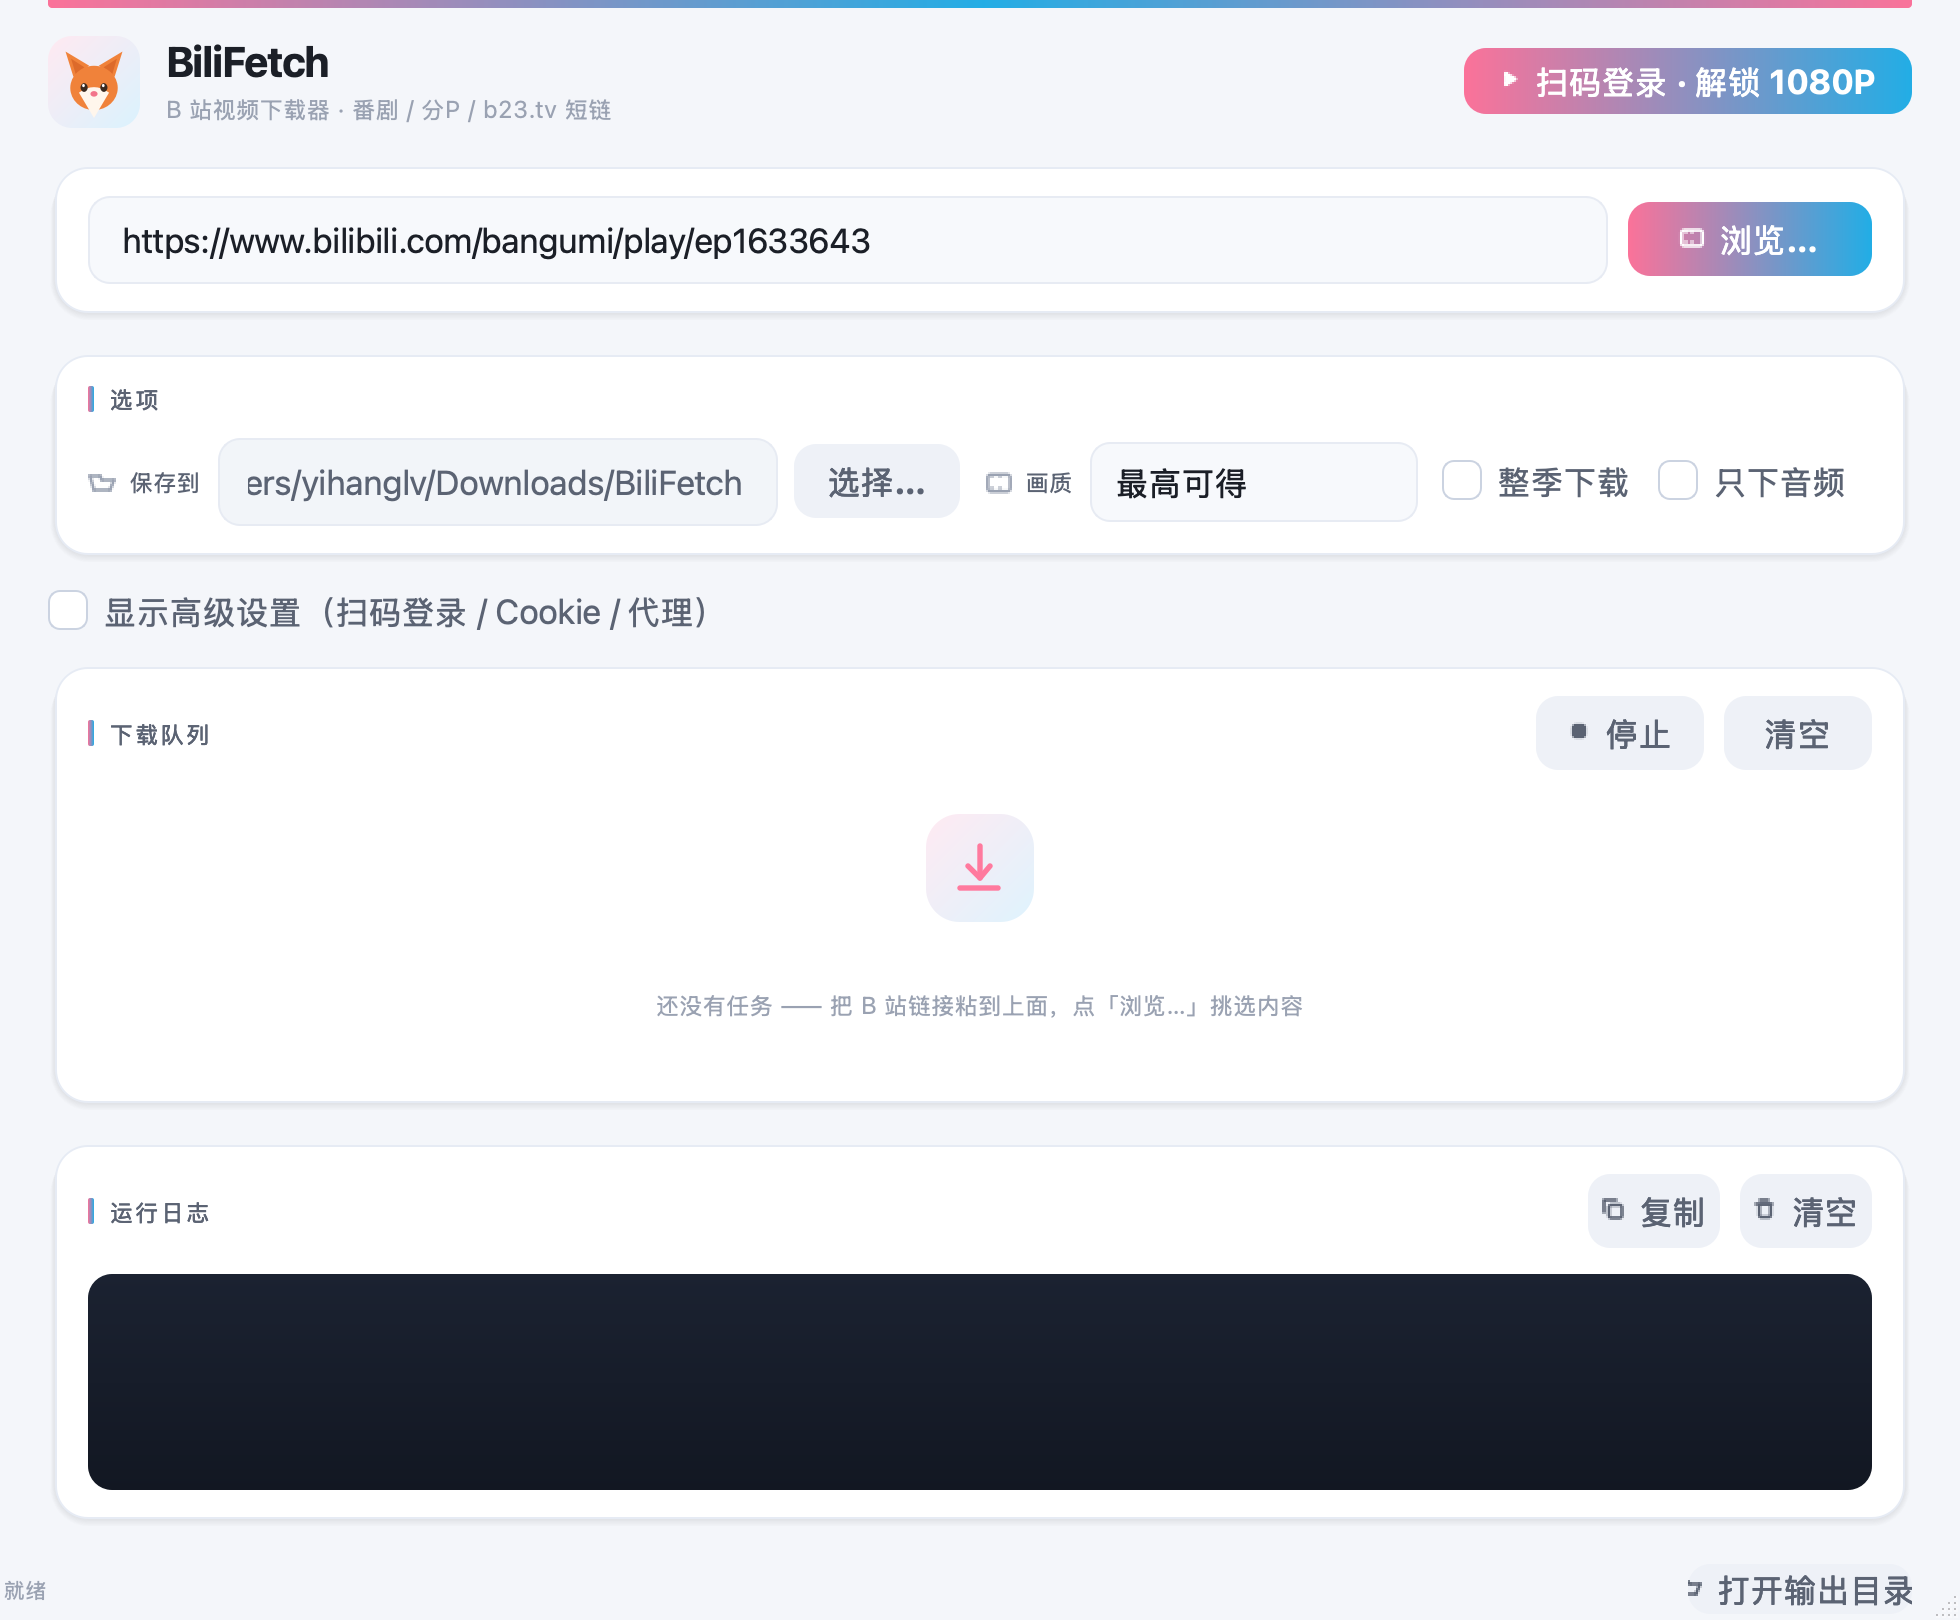
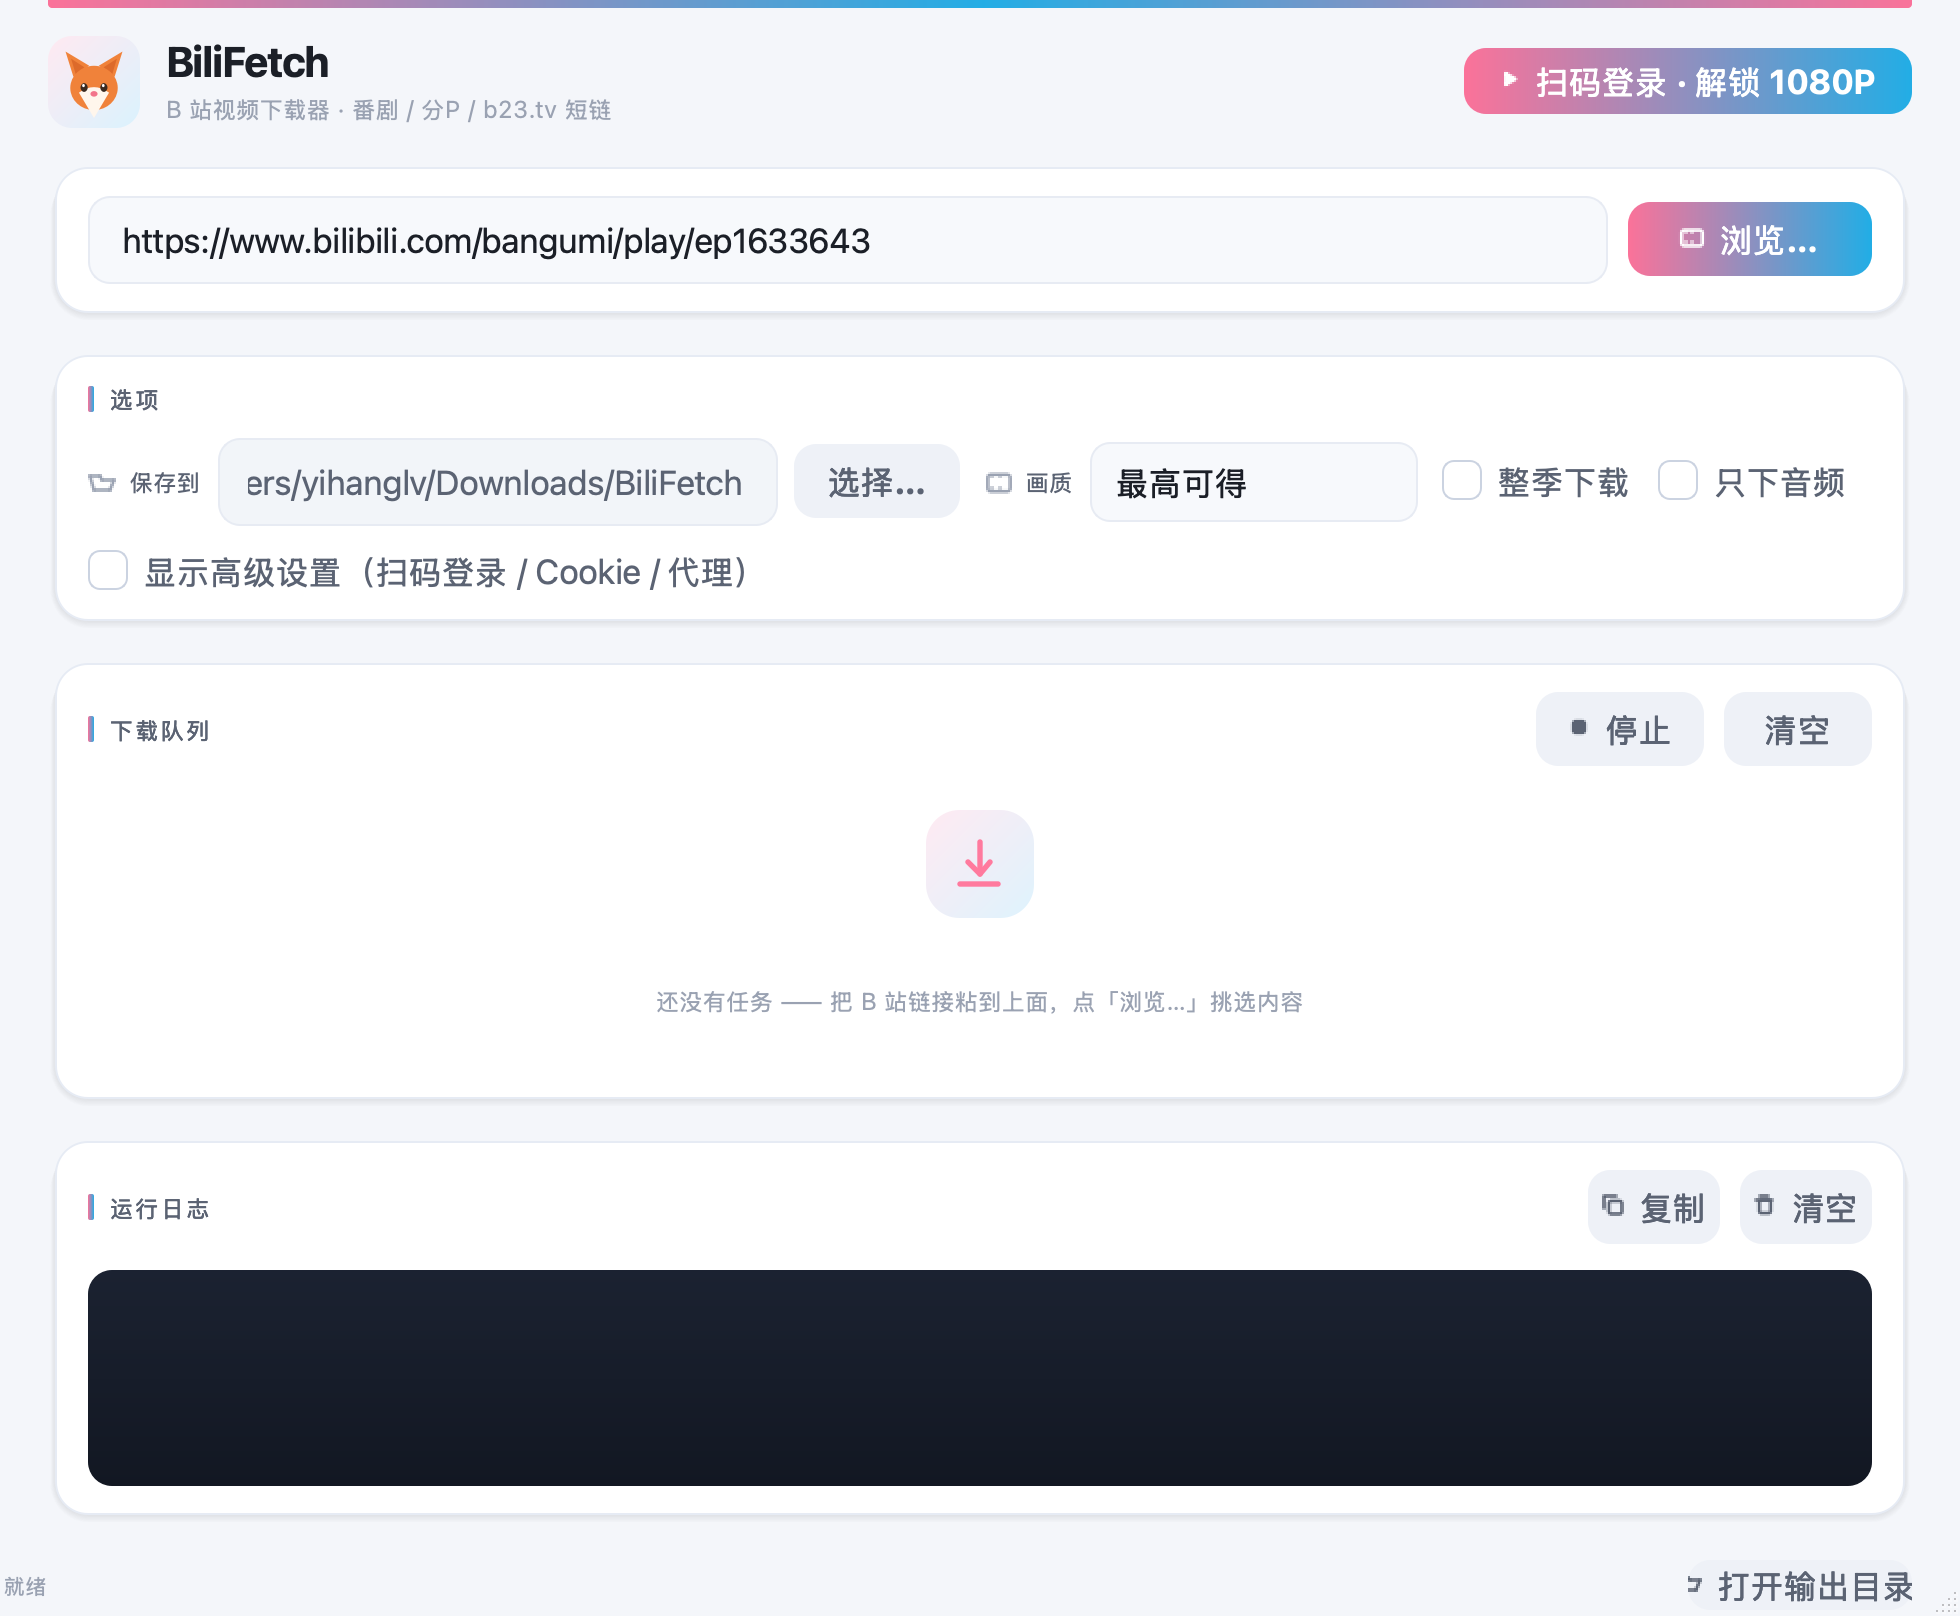
fix: 高级卡展开会压住下面的卡片；补「下载中退出」打包自检
- 「显示高级设置」勾选框收进选项卡，不再孤零零飘在页面上
- 高级卡里的标签写错了（代理被写成 Cookie，还多一个空的 Cookie 标签），已修正
- 展开/收起高级卡时窗口高度跟着变，不再把下载队列卡压到重叠
- 新增 --selftest-exit：开界面下到一半就关窗口，验证不会 SIGABRT
  （打包版实测通过，退出码 0，无新崩溃报告）
- 文档截图换成真实番剧数据（灵笼 第二季）的预览界面

diff --git a/bilifetch_gui.py b/bilifetch_gui.py
@@ -786,13 +786,12 @@ class MainWindow(QMainWindow):
         av.addWidget(self.cookie_edit, 1)
         av.addWidget(IconLabel("代理", "gear"))
         av.addWidget(self.proxy_edit, 0)
-        av.addWidget(IconLabel("Cookie", "gear"))
         self.adv_card.layout.addLayout(av)
         self.adv_card.setVisible(False)
         self.chk_adv = QCheckBox("显示高级设置（扫码登录 / Cookie / 代理）")
         self.chk_adv.setCursor(Qt.PointingHandCursor)
         self.chk_adv.toggled.connect(self._toggle_adv)
-        root.addWidget(self.chk_adv)
+        card.layout.addWidget(self.chk_adv)   # 放进选项卡里，别孤零零飘在页面上
         root.addWidget(self.adv_card)
 
         # ---- 队列卡 ----
@@ -864,6 +863,7 @@ class MainWindow(QMainWindow):
         need_h = root.minimumSize().height()
         self.setMinimumSize(920, max(660, need_h + 6))
         self.resize(980, max(800, need_h + 60))
+        self._compact_h = self.height()      # 高级卡收起时的高度
 
         sb = QStatusBar()
         self.setStatusBar(sb)
@@ -913,11 +913,16 @@ class MainWindow(QMainWindow):
         fade_in(widget, 280, PAGE)
 
     def _toggle_adv(self, on):
+        self.adv_card.setVisible(on)
         if on:
-            self.adv_card.setVisible(True)
             self._fade_in(self.adv_card)
+        # 高级卡一进一出，布局所需高度就变了；窗口跟着长/缩，
+        # 不然下面的卡片会被压到互相重叠。
+        need = self.centralWidget().layout().minimumSize().height() + 60
+        if on:
+            self.resize(self.width(), max(self.height(), need))
         else:
-            self.adv_card.setVisible(False)
+            self.resize(self.width(), max(need, self._compact_h))
 
     # ---------------- 事件 ----------------
     def _set_login_state(self, nickname):
@@ -1198,6 +1203,51 @@ class MainWindow(QMainWindow):
 SELFTEST_RESULT = os.path.join(tempfile.gettempdir(), "bilifetch_selftest.txt")
 
 
+def selftest_exit(url, out_dir, wait_ms=4000):
+    """打包后的自检：开着界面下到一半就关窗口，看会不会 SIGABRT。
+
+    QThread 在运行中被销毁会让 Qt 直接 abort（进程退出码 134），
+    所以这条自检能直接回答"下载中退出到底崩不崩"。
+    """
+    app = QApplication(sys.argv)
+    app.setStyle("Fusion")
+    app.setStyleSheet(QSS)
+    win = MainWindow()
+    win.out_edit.setText(out_dir)
+    win.show()
+    # 万一线程没停下，closeEvent 会弹模态框 —— 自检里不能被它卡住
+    QMessageBox.information = staticmethod(lambda *a, **k: None)
+
+    QTimer.singleShot(1200, lambda: win._start_download(url))
+
+    state = {"running": True, "downloading": False}
+
+    def bye():
+        # 关之前先确认线程真的在跑（不然这条自检就是空跑）
+        state["downloading"] = bool(win.thread and win.thread.isRunning())
+        win.close()                       # 走 closeEvent -> _stop_worker
+        state["running"] = bool(win.thread and win.thread.isRunning())
+
+    QTimer.singleShot(wait_ms, bye)
+    QTimer.singleShot(wait_ms + 30000, app.quit)
+    app.exec_()
+
+    ok = state["downloading"] and not state["running"]
+    if not state["downloading"]:
+        text = "FAIL 下载根本没开始，这条自检不算数\n"
+    elif state["running"]:
+        text = "FAIL 退出时线程还在跑\n"
+    else:
+        text = "OK 下载中关窗口，线程干净收尾\n"
+    try:
+        with open(SELFTEST_RESULT, "w", encoding="utf-8") as fp:
+            fp.write(text)
+    except OSError:
+        pass
+    print(text.strip())
+    return 0 if ok else 1
+
+
 def selftest(url, out_dir):
     """打包后的自检：不开界面，真下一次，把结果写到文件里。
 
@@ -1261,6 +1311,9 @@ def main():
     if len(sys.argv) > 1 and sys.argv[1] == "--selftest-collection":
         out_dir = sys.argv[3] if len(sys.argv) > 3 else os.path.expanduser("~/Downloads")
         sys.exit(selftest_collection(sys.argv[2], out_dir))
+    if len(sys.argv) > 1 and sys.argv[1] == "--selftest-exit":
+        out_dir = sys.argv[3] if len(sys.argv) > 3 else tempfile.gettempdir()
+        sys.exit(selftest_exit(sys.argv[2], out_dir))
 
     app = QApplication(sys.argv)
     app.setApplicationName("BiliFetch")

diff --git a/packaging/homebrew/bilifetch.rb b/packaging/homebrew/bilifetch.rb
@@ -10,7 +10,7 @@
 
 cask "bilifetch" do
   version "1.0.0"
[2 lines of base64/hex data omitted]
 
   url "https://github.com/Lvyihanghh/bilifetch/releases/download/v#{version}/BiliFetch-#{version}-macOS.dmg"
   name "BiliFetch"

diff --git a/README.md b/README.md
@@ -102,7 +102,7 @@ python3 bilifetch_gui.py        # 图形界面
 
 ![扫码登录](docs/screenshot-login.png)
 
-**高级 → 扫码登录** → 用手机 B 站 App 扫二维码 → 手机上确认 → 自动登录成功。
+**右上角「扫码登录 · 解锁 1080P」** → 用手机 B 站 App 扫二维码 → 手机上确认 → 自动登录成功。
 
 - 二维码有效期 **180 秒**，过期了点「刷新二维码」
 - 登录态保存在 `~/Library/Application Support/BiliFetch/settings.json`（Linux 是 `~/.config/bilifetch/`），
@@ -329,6 +329,13 @@ BiliFetch.app/Contents/MacOS/BiliFetch --selftest <链接> <输出目录>
 
 它会不开界面真下一次，把结果写到 `~/.bilifetch_selftest.txt` ——
 **PyInstaller 打包最容易在 SSL 证书、隐藏依赖上翻车**，所以必须真跑一次。
+
+还有一条查「下载中退出会不会崩」的（QThread 在运行中被析构会让 Qt 直接 abort）：
+
+```bash
+BiliFetch.app/Contents/MacOS/BiliFetch --selftest-exit <链接> <输出目录>
+# OK 下载中关窗口，线程干净收尾
+```
 
 打包脚本的三个坑（已在 `build.sh` 里处理）：
 
